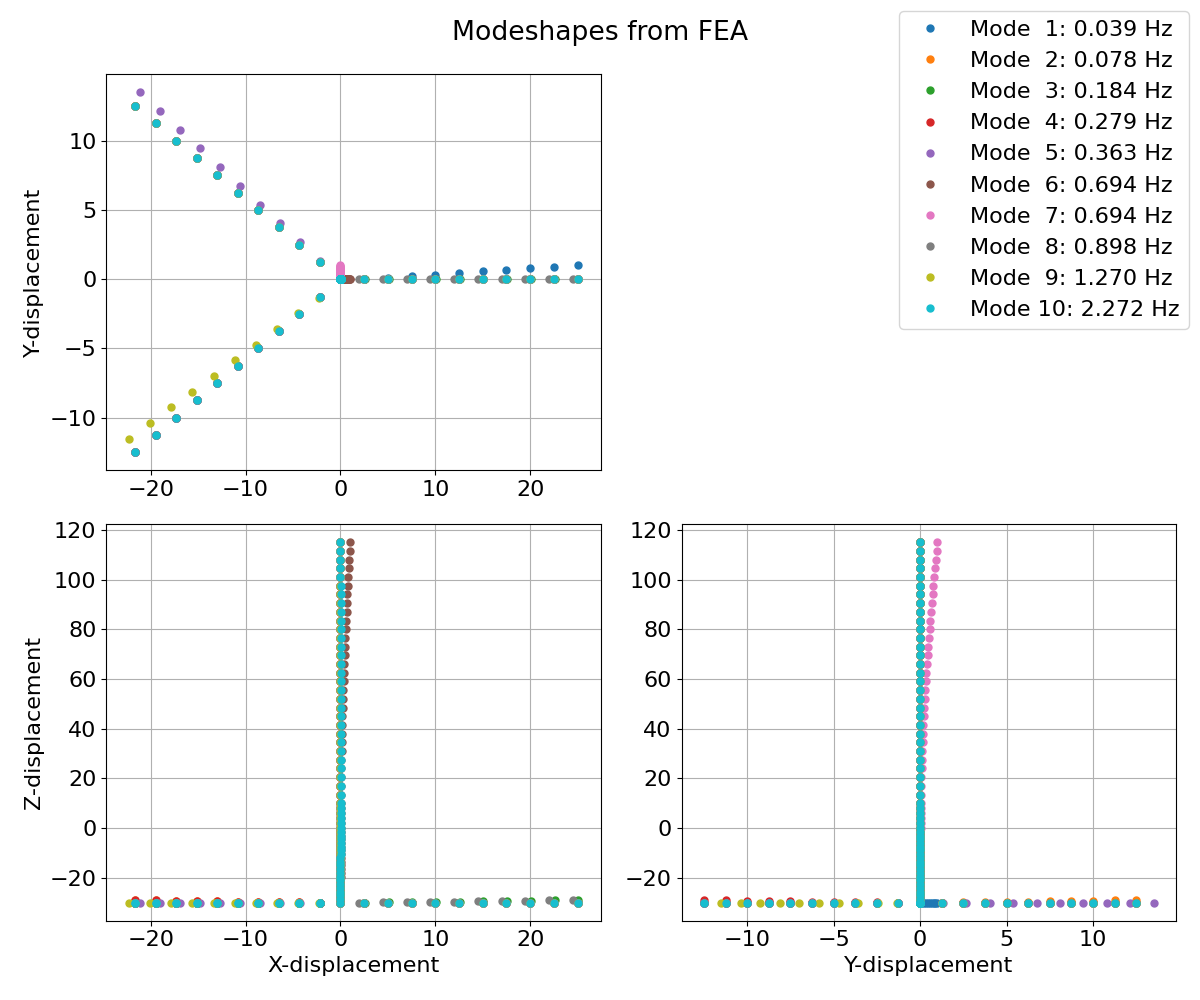
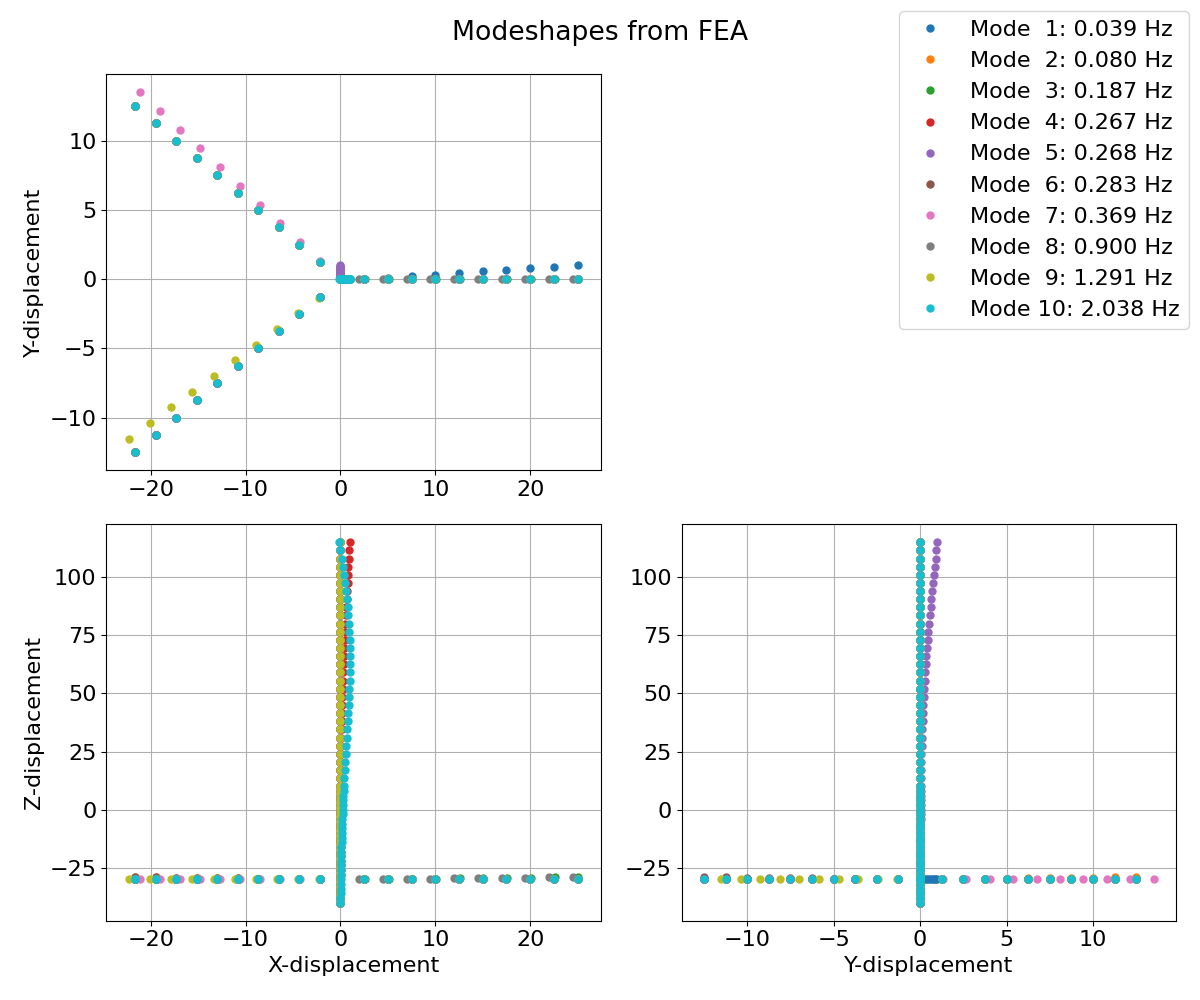
Continued work to get proper TLP model

diff --git a/run_tlp_fea.py b/run_tlp_fea.py
@@ -40,32 +40,51 @@ def UniformBeam():
 
     D_col = 12. # m
     D_beam_0 = (D_col*np.ones(nElems[0]+nElems[1]))
-    D_beam_1 = np.linspace(8.,5.,nElems[2])
-    D_pont = 6.
+    D_beam_1 = np.linspace(8.3,5.5,nElems[2])
+    D_pont = 8.
     D_beam_2 = (D_pont*np.ones(nElems[3]+nElems[4]+nElems[5]))
 
-    wt_col = 0.5 # m
+    wt_col = 0.04 # m
     wt_beam_0 = (wt_col*np.ones(nElems[0]+nElems[1]))
-    wt_beam_1 = np.linspace(0.4,0.2,nElems[2])
-    wt_pont = 0.15
+    wt_beam_1 = np.linspace(0.038,0.02,nElems[2])
+    wt_pont = 0.04
     wt_beam_2 = (wt_pont*np.ones(nElems[3]+nElems[4]+nElems[5]))
 
-    L_col = 30./nElems[0] # m
+    draft = 30.
+    L_col = draft/nElems[0] # m
     L_beam_0a = (L_col*np.ones(nElems[0]))
     L_trans = 10./nElems[1] # m
     L_beam_0b = (L_trans*np.ones(nElems[1]))
     L_tower = 105./nElems[2]
     L_beam_1 = (L_tower*np.ones(nElems[2]))
-    L_pont = 25./nElems[3] # m
+    pont_rad = 34.
+    L_pont = pont_rad/nElems[3] # m
     L_beam_2 = (L_pont*np.ones(nElems[3]+nElems[4]+nElems[5]))
 
     D_beam = np.concatenate((D_beam_0, D_beam_1, D_beam_2))
     wt_beam = np.concatenate((wt_beam_0, wt_beam_1, wt_beam_2))
     L_beam = np.concatenate((L_beam_0a, L_beam_0b, L_beam_1, L_beam_2))
-    M_beam = (np.pi/4.) * (D_beam**2. - (D_beam - (2.*wt_beam))**2.) * myconst.RHO_STL 
+    A_beam = (np.pi/4.) * (D_beam**2. - (D_beam - (2.*wt_beam))**2.)
+    M_beam = A_beam * L_beam * myconst.RHO_STL 
+    M_rna = 674000.
+
+    # Axial force calculation
+    M_tot = sum(M_beam) + M_rna
+    idx = sum(nElems[:3])
+    M_pont_tot = sum(M_beam[idx:])
+    P_beam = np.zeros_like(M_beam)
+    M_above = M_tot - M_pont_tot - np.cumsum(M_beam[:idx])
+    P_beam[:idx] += (M_above * myconst.G)
+
+    # Volume calculation
+    vol_pont = (np.pi/4.) * D_pont**2. * (sum(L_beam_2) - (3/2)*D_col)
+    vol_col = (np.pi/4.) * D_col**2. * sum(L_beam_0a)
+    buoy = (vol_col + vol_pont) * myconst.RHO_SW * myconst.G
+    weight = M_tot * myconst.G
+    pretension = (buoy - weight) / 3. # N
 
     # --- Node Locations
-    z_beamnode_0 = np.linspace(-30.,0.,nNodes[0])
+    z_beamnode_0 = np.linspace(-1.*draft,0.,nNodes[0])
     y_beamnode_0 = np.zeros_like(z_beamnode_0)
     x_beamnode_0 = np.zeros_like(z_beamnode_0)
 
@@ -79,20 +98,20 @@ def UniformBeam():
     y_beamnode_2 = np.zeros_like(z_beamnode_2)
     x_beamnode_2 = np.zeros_like(z_beamnode_2)
 
-    x_beamnode_3 = np.linspace(0.,25.,nNodes[3])
+    x_beamnode_3 = np.linspace(0.,pont_rad,nNodes[3])
     x_beamnode_3 = np.delete(x_beamnode_3,0)
     y_beamnode_3 = np.zeros_like(x_beamnode_3)
     z_beamnode_3 = -30. * np.ones_like(x_beamnode_3)
 
-    x_beamnode_4 = np.linspace(0.,-21.6506,nNodes[4])
+    x_beamnode_4 = np.linspace(0.,-1.*pont_rad*np.sin(np.pi/3.),nNodes[4])
     x_beamnode_4 = np.delete(x_beamnode_4,0)
-    y_beamnode_4 = np.linspace(0.,12.5,nNodes[4])
+    y_beamnode_4 = np.linspace(0.,pont_rad*np.cos(np.pi/3.),nNodes[4])
     y_beamnode_4 = np.delete(y_beamnode_4,0)
     z_beamnode_4 = -30. * np.ones_like(x_beamnode_4)
 
-    x_beamnode_5 = np.linspace(0.,-21.6506,nNodes[5])
+    x_beamnode_5 = np.linspace(0.,-1.*pont_rad*np.sin(np.pi/3.),nNodes[5])
     x_beamnode_5 = np.delete(x_beamnode_5,0)
-    y_beamnode_5 = np.linspace(0.,-12.5,nNodes[5])
+    y_beamnode_5 = np.linspace(0.,-1.*pont_rad*np.cos(np.pi/3.),nNodes[5])
     y_beamnode_5 = np.delete(y_beamnode_5,0)
     z_beamnode_5 = -30. * np.ones_like(x_beamnode_5)
 
@@ -133,37 +152,41 @@ def UniformBeam():
     IDOF_All = np.arange(0,nDOF_tot)
     # Tip and root degrees of freedom
     IDOF_root = Nodes2DOF[Layout[0][0]]
-    IDOF_tip  = Nodes2DOF[Layout[2][-1]]
+    IDOF_rna  = Nodes2DOF[Layout[2][-1]]
+    IDOF_tend1  = Nodes2DOF[Layout[3][-1]]
+    IDOF_tend2  = Nodes2DOF[Layout[4][-1]]
+    IDOF_tend3  = Nodes2DOF[Layout[5][-1]]    
     
+    # --- Rough Tendon Calculation
 
     # --- Handle BC and root/tip conditions
     BC_root = [0,0,0,0,0,0]
     # BC_root  = [1,1,1,1,1,1]
-    BC_tip  = [1,1,1,1,1,1]
+    BC_rna  = [1,1,1,1,1,1]
     
     M_root = None
-    M_tip = PointMassMatrix(m=100000.,Ref2COG=(0,0.2,0))
+    M_rna = PointMassMatrix(m=M_rna,Ref2COG=(0,0.2,0))
     K_root = None
-    K_tip = None
+    K_rna = None
 
     # Insert tip/root inertias
     if M_root is not None:
         M_glob[np.ix_(IDOF_root, IDOF_root)] += M_root
-    if M_tip is not None:
-        M_glob[np.ix_(IDOF_tip, IDOF_tip)]   += M_tip
+    if M_rna is not None:
+        M_glob[np.ix_(IDOF_rna, IDOF_rna)]   += M_rna
 
     # Insert tip/root stiffness
     if K_root is not None:
         K_glob[np.ix_(IDOF_root, IDOF_root)] += K_root
-    if K_tip is not None:
-        K_glob[np.ix_(IDOF_tip, IDOF_tip)] += K_tip
+    if K_rna is not None:
+        K_glob[np.ix_(IDOF_rna, IDOF_rna)] += K_rna
 
     # Boundary condition transformation matrix (removes row/columns)
     Tr=np.eye(nDOF_tot)
 
     # Root and Tip BC
     IDOF_removed = [i for i,iBC in zip(IDOF_root, BC_root) if iBC==0]
-    IDOF_removed += [i for i,iBC in zip(IDOF_tip, BC_tip) if iBC==0]
+    IDOF_removed += [i for i,iBC in zip(IDOF_rna, BC_rna) if iBC==0]
     Tr = np.delete(Tr, IDOF_removed, axis=1) # removing columns
 
     Mr = (Tr.T).dot(M_glob).dot(Tr)
